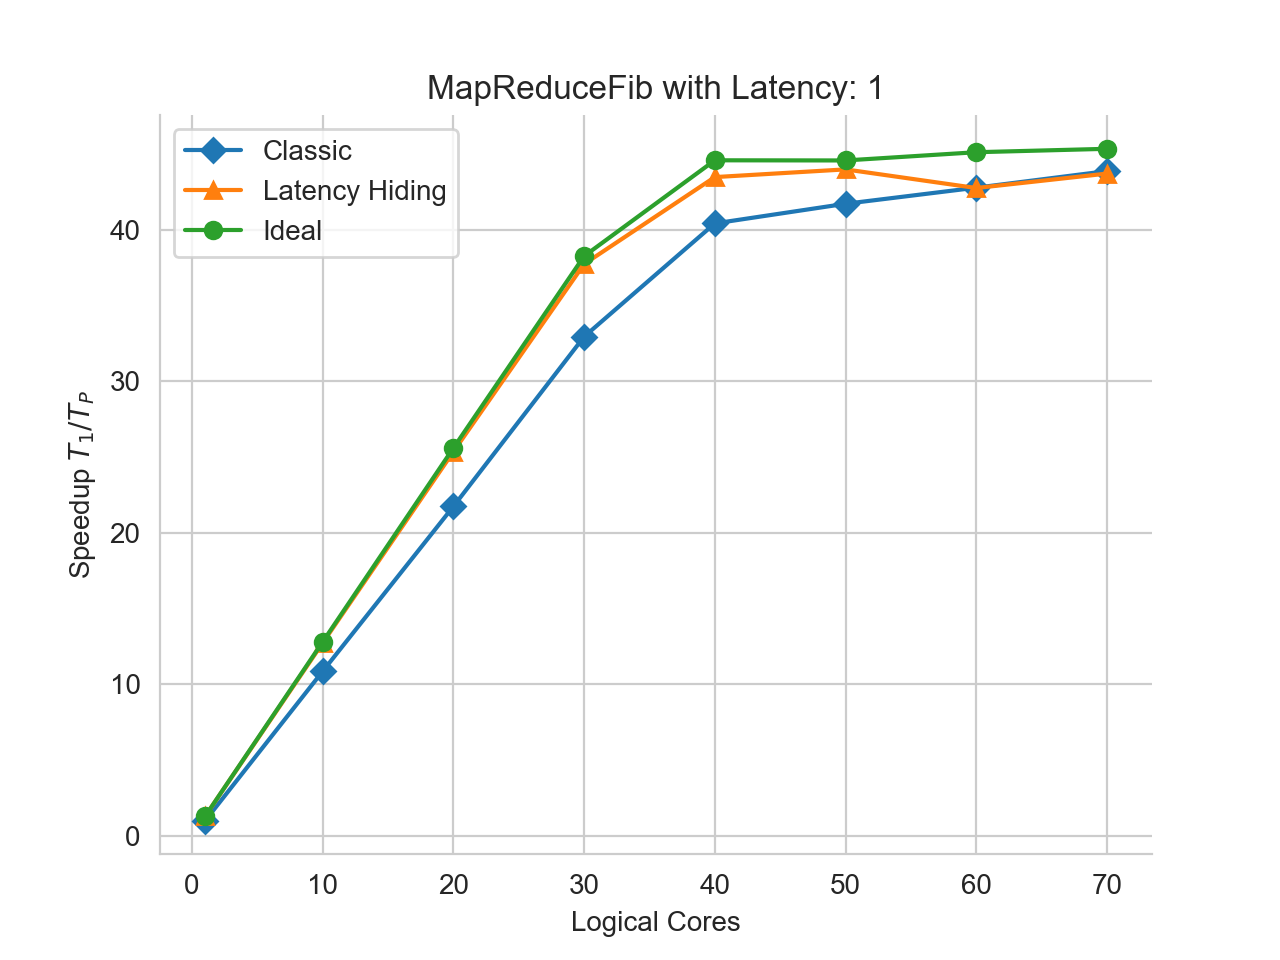
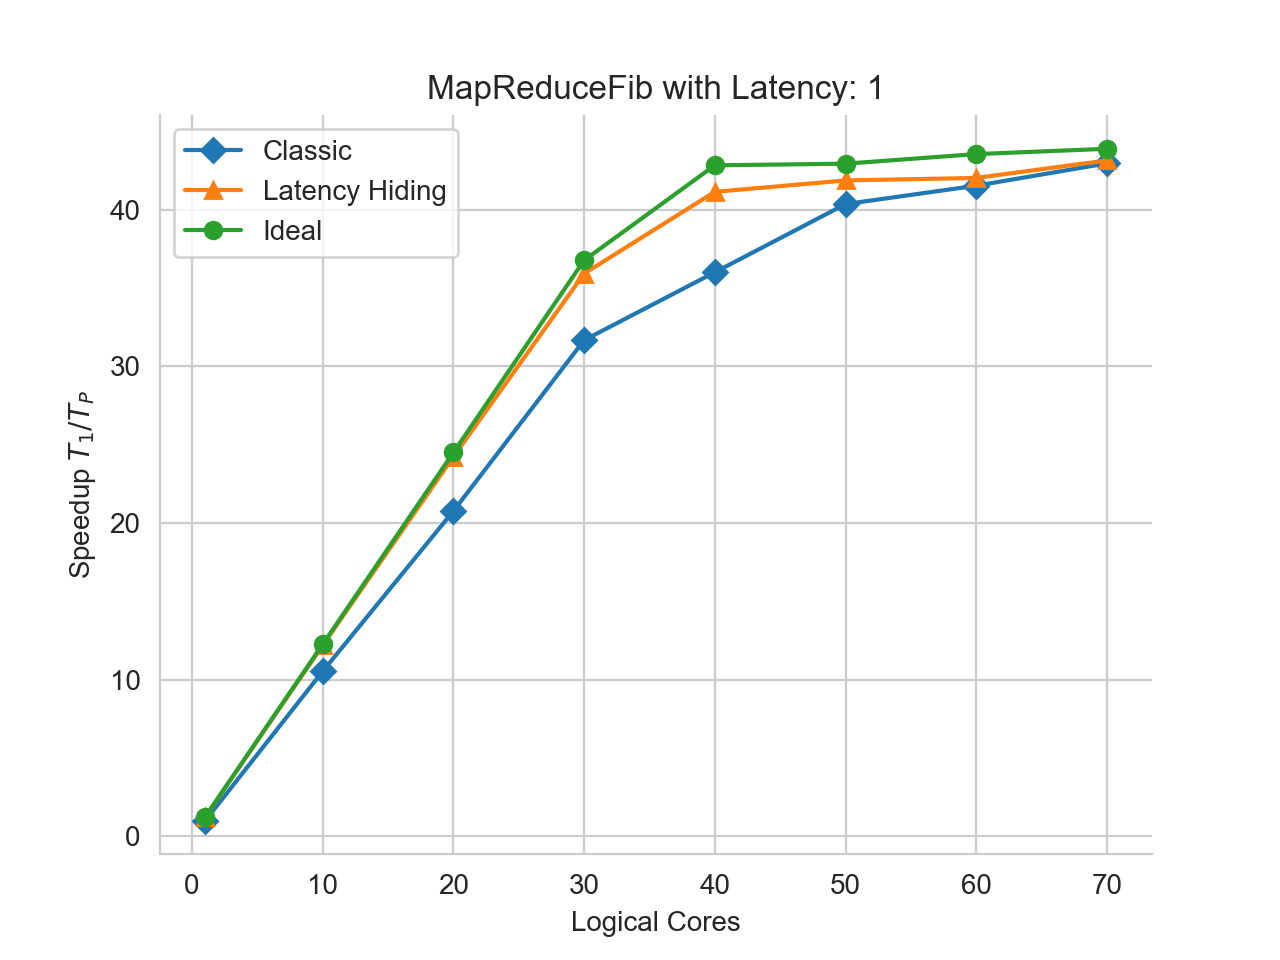
Update plots

diff --git a/plotting/overhead.py b/plotting/overhead.py
@@ -23,10 +23,8 @@ for scheduler_path in schedulers:
             param_strings = bench_info['value_str'].split('|')
 
             for param_string in param_strings:
-                param_name = param_string.split('-')[0].strip()
-                param_value = param_string.split('-')[1].strip()
-                # param_name = param_string.split(':')[0].strip()
-                # param_value = param_string.split(':')[1].strip()
+                param_name = param_string.split(':')[0].strip()
+                param_value = param_string.split(':')[1].strip()
 
                 observation[param_name] = int(param_value) # all param string values are specified as ints
 
@@ -52,7 +50,6 @@ assert serial_baseline.size == 1
 serial_baseline = serial_baseline.iloc[0]
 
 speedups = df.loc[(df['Scheduler'] != 'Serial'), ['Scheduler', 'Cores', 'Wallclock']]
-speedups['Speedup'] = speedups['Wallclock'].map(lambda x: serial_baseline / x)
 speedups['Speedup'] = serial_baseline / speedups['Wallclock']
 
 classic = speedups.loc[speedups['Scheduler'] == 'Classic', ['Cores', 'Speedup']].sort_values(by=['Cores'])
@@ -62,7 +59,7 @@ with sns.axes_style(style="whitegrid"):
     plt.plot(classic['Cores'], classic['Speedup'], marker='D', label='Classic')
     plt.plot(lh['Cores'], lh['Speedup'], marker='^', label='Latency Hiding')
 
-    plt.title(f'Overhead')
+    plt.title(f'Scheduler Overhead Compared to Classic Work Stealing')
     plt.legend(loc='best')
     plt.xlabel('Logical Cores')
     plt.ylabel(r'Speedup $T_1 / T_P$')

diff --git a/plotting/map_reduce.py b/plotting/map_reduce.py
@@ -23,10 +23,8 @@ for scheduler_path in os.scandir(bench_group):
             param_strings = bench_info['value_str'].split('|')
 
             for param_string in param_strings:
-                param_name = param_string.split('-')[0].strip()
-                param_value = param_string.split('-')[1].strip()
-                # param_name = param_string.split(':')[0].strip()
-                # param_value = param_string.split(':')[1].strip()
+                param_name = param_string.split(':')[0].strip()
+                param_value = param_string.split(':')[1].strip()
 
                 observation[param_name] = int(param_value) # all param string values are specified as ints
 
